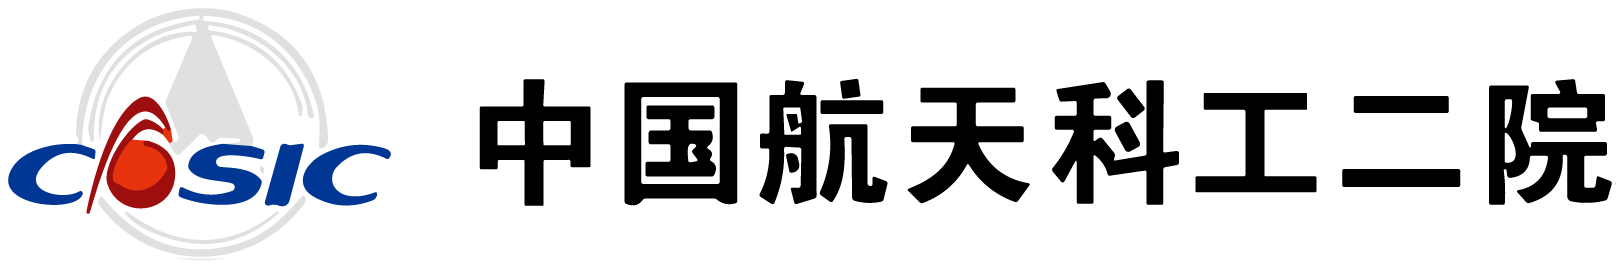
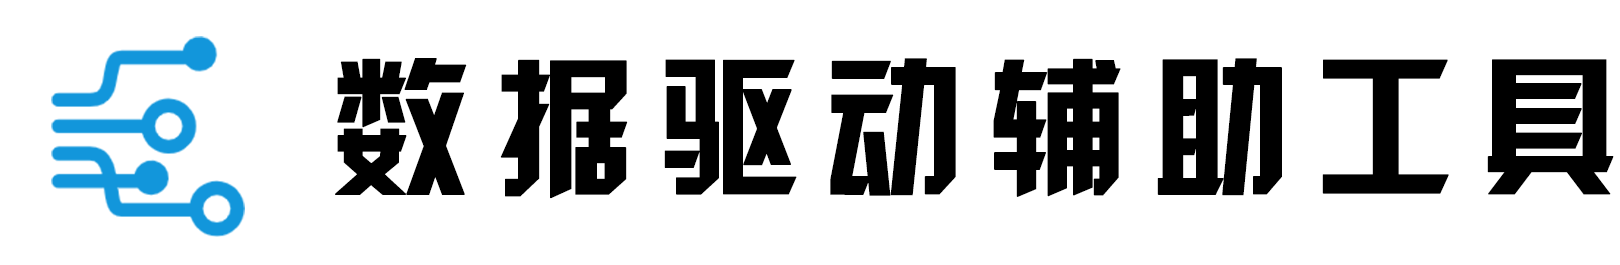
zhao
change icon

diff --git a/src/userview/flow/components/ConfigPanel/ConfigNode/index.vue b/src/userview/flow/components/ConfigPanel/ConfigNode/index.vue
@@ -1,6 +1,12 @@
 <template>
   <Tabs class="config" value="1">
     <TabPane label="属性" name="1">
+      <Row class="canshu" align="middle" v-for="item in parameter">
+        <Col :span="8">{{item}}</Col>
+        <Col :span="14">
+          <Input v-model="data.nodecanshu1" style="width: 100%" @change="oncanshu1Change" />
+        </Col>
+      </Row>
       <Row class="canshu" align="middle">
         <Col :span="8">参数1</Col>
         <Col :span="14">
@@ -80,11 +86,48 @@
   import { Cell } from '@antv/x6/lib';
   import { nodeOpt } from './method';
 
+  const list_attribute = [
 
-  
+          {
+              name: 'data_load',
+              label: '数据加载',
+              icon: '',
+              children: [
+                  {
+                      name: 'data_path',
+                      label: '数据路径',
+                      icon: '',
+                      url: ''
+                  },
+                  {
+                      name: 'head_num',
+                      label: '表头数量',
+                      icon: '',
+                      url: ''
+                  },
+                  {
+                      name: 'dataset_num',
+                      label: '数据集大小',
+                      icon: '',
+                      url: ''
+                  },
+                  {
+                      name: 'img_size',
+                      label: '图像分辨率',
+                      icon: '',
+                      url: ''
+                  }
+              ]
+
+          }]
+
   export default defineComponent({
     name: 'Index',
-
+    data() {
+      return {
+        parameter:["参数888","参数881","参数882","参数83"]
+      }
+    },
     setup() {
       const globalGridAttr: any = inject('globalGridAttr');
       const id: any = inject('id');
@@ -161,29 +204,29 @@
         curCel?.setData({
           canshu2: val,
         });
-      };  
+      };
 
       const oncanshu3Change = (e: any) => {
         const val = e.target.value;
         curCel?.setData({
           canshu3: val,
         });
-      };  
+      };
 
       const oncanshu4Change = (e: any) => {
         const val = e.target.value;
         curCel?.setData({
           canshu4: val,
         });
-      };  
+      };
 
       const oncanshu5Change = (e: any) => {
         const val = e.target.value;
         curCel?.setData({
           canshu5: val,
         });
-      };  
-  
+      };
+
 
       return {
         globalGridAttr,
@@ -208,7 +251,7 @@
 
 .config{
   width: 300px;
-  text-align: center, 
+  text-align: center
 }
 .canshu{
   margin: 10px;

diff --git a/src/userview/flow/index.vue b/src/userview/flow/index.vue
@@ -157,6 +157,19 @@
                       icon: '',
                       url: ''
                   }
+              ],
+              parameter:[
+              {
+                      name: 'data_path',
+                      label: '数据路径',
+                 
+                  },
+                {
+                      name: 'head_num',
+                      label: '表头数量',
+                 
+                  },
+
               ]
 
           },
@@ -219,6 +232,20 @@
                   {
                       name: 'DQN',
                       label: 'DQN',
+                      icon: '',
+                      url: ''
+                  },
+              ]
+          },
+          {
+              name: 'moudletrain',
+              label: '模型训练',
+              icon: '',
+              url: '',
+              children: [
+                  {
+                      name: '',
+                      label: '',
                       icon: '',
                       url: ''
                   },

diff --git a/src/components/contentcard.vue b/src/components/contentcard.vue
@@ -37,7 +37,10 @@
     </template>
     <div style="text-align:center;margin-top: -8%">
       <!--预览图 目前图片来自网页-->
-      <img src="../assets/dataset.png">
+      <img v-if="this.pageKind=='database'" src="../assets/dataset.png">
+      <img v-if="this.pageKind=='modelbase'" src="../assets/model.png">
+      <img v-if="this.pageKind=='defineFunction'" src="../assets/function.png">
+      <img v-if="this.pageKind=='design'" src="../assets/design.png">
       <Tooltip content="点击编辑" placement="top">
         <div v-if="this.pageKind == 'design'">
           <a @click="toindex">
@@ -49,7 +52,7 @@
         </div>
         <div v-else>
           <a @click="editBtn = true">
-            <h4 style="margin-top: -5%;color: #054079">
+            <h4 style="margin-top: 8%;color: #054079">
               <Icon type="ios-create" style="font-size: 20px"/>
               {{this.cardName}}
               <Modal v-model="editBtn" title="编辑" :styles="{top: '30px'}"

diff --git a/src/userview/example.vue b/src/userview/example.vue
@@ -104,7 +104,7 @@
                   </p>
                 </template>
                 <Card>
-                  <template #title><strong>案例信息</strong></template>
+                  <template #title><strong>任务信息</strong></template>
 
                   <Row>
                     <Col span="8">案例号：{{ curRow.id }}</Col>

diff --git a/src/userview/login.vue b/src/userview/login.vue
@@ -21,7 +21,7 @@
         <Login class="regist-btn" @on-submit="toRegist">
           <Submit>注册</Submit>
         </Login>
-        <router-link to="/home">Home</router-link>
+<!--        <router-link to="/home">Home</router-link>-->
       </Card>
     </div>
   </div>

diff --git a/src/userview/modelbase.vue b/src/userview/modelbase.vue
@@ -154,7 +154,7 @@ export default {
           default: false,
           itemType: 'input',
           isEditOnly: true,
-          others:["请输入数据集名称..."]
+          others:["请输入模型名称..."]
         },
         {
           title: '级别',

diff --git a/src/userview/defineFunction.vue b/src/userview/defineFunction.vue
@@ -177,7 +177,7 @@ export default {
           others:['taskType']
         },
         {
-          title: '任务',
+          title: '范数',
           name: 'task',
           value: {task: ''},
           default: true,
